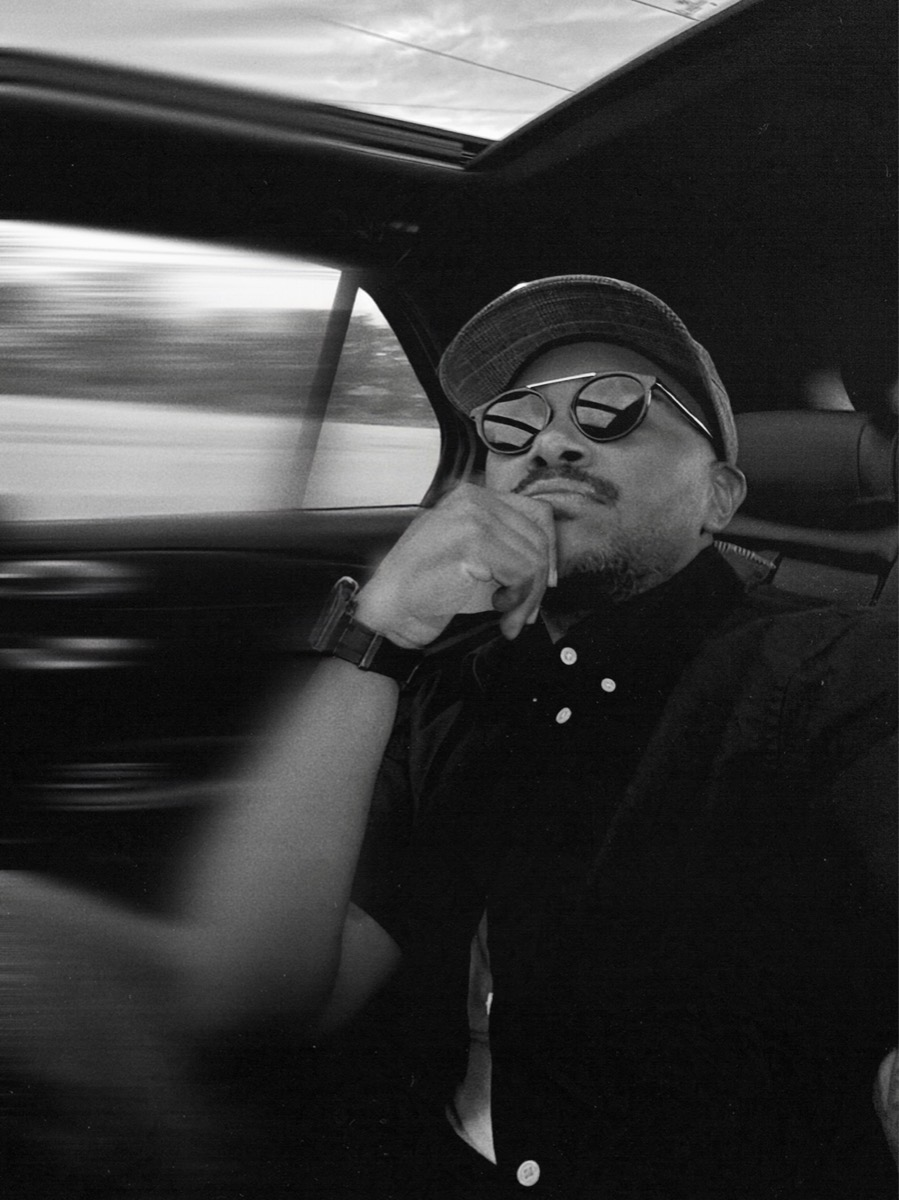
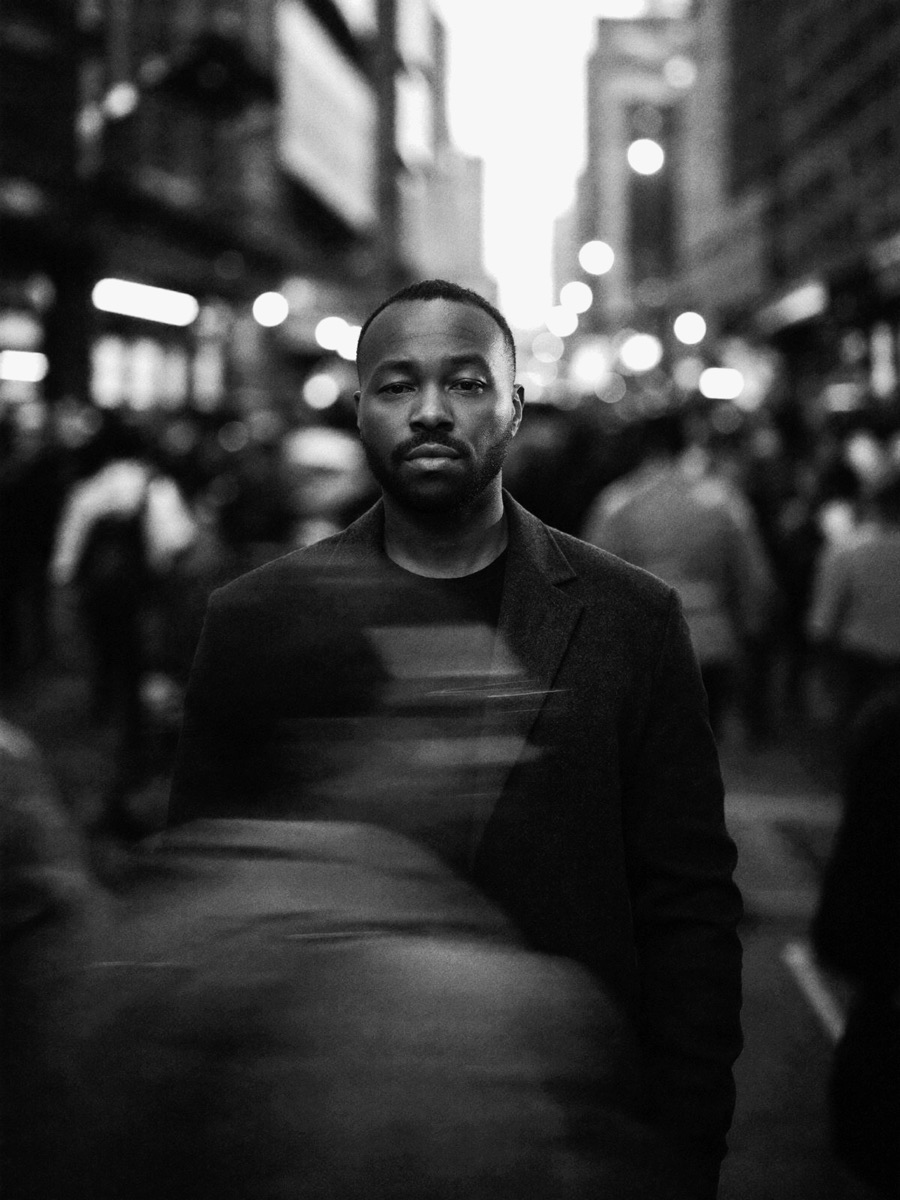
content: swap in color-graded portrait; honor grade (drop CSS contrast bump)

diff --git a/about.html b/about.html
@@ -96,7 +96,7 @@
             <div data-sheen style="position:absolute; inset:0; border-radius:10px; pointer-events:none; z-index:5; opacity:0; background:radial-gradient(circle at 50% 0%, rgba(255,255,255,0.35), rgba(255,255,255,0) 45%); mix-blend-mode:soft-light;"></div>
             <!-- portrait -->
             <div style="position:relative; aspect-ratio:1/1; overflow:hidden; border-radius:6px; background:#111;">
-              <img src="assets/portrait.jpg" alt="Ace Burney" width="420" height="420" loading="lazy" style="width:100%; height:100%; object-fit:cover; object-position:center 46%; filter:grayscale(1) contrast(1.05);">
+              <img src="assets/portrait.jpg" alt="Ace Burney" width="420" height="420" loading="lazy" style="width:100%; height:100%; object-fit:cover; object-position:center 46%; filter:grayscale(1);">
             </div>
             <!-- body -->
             <div style="padding:16px 6px 4px;">